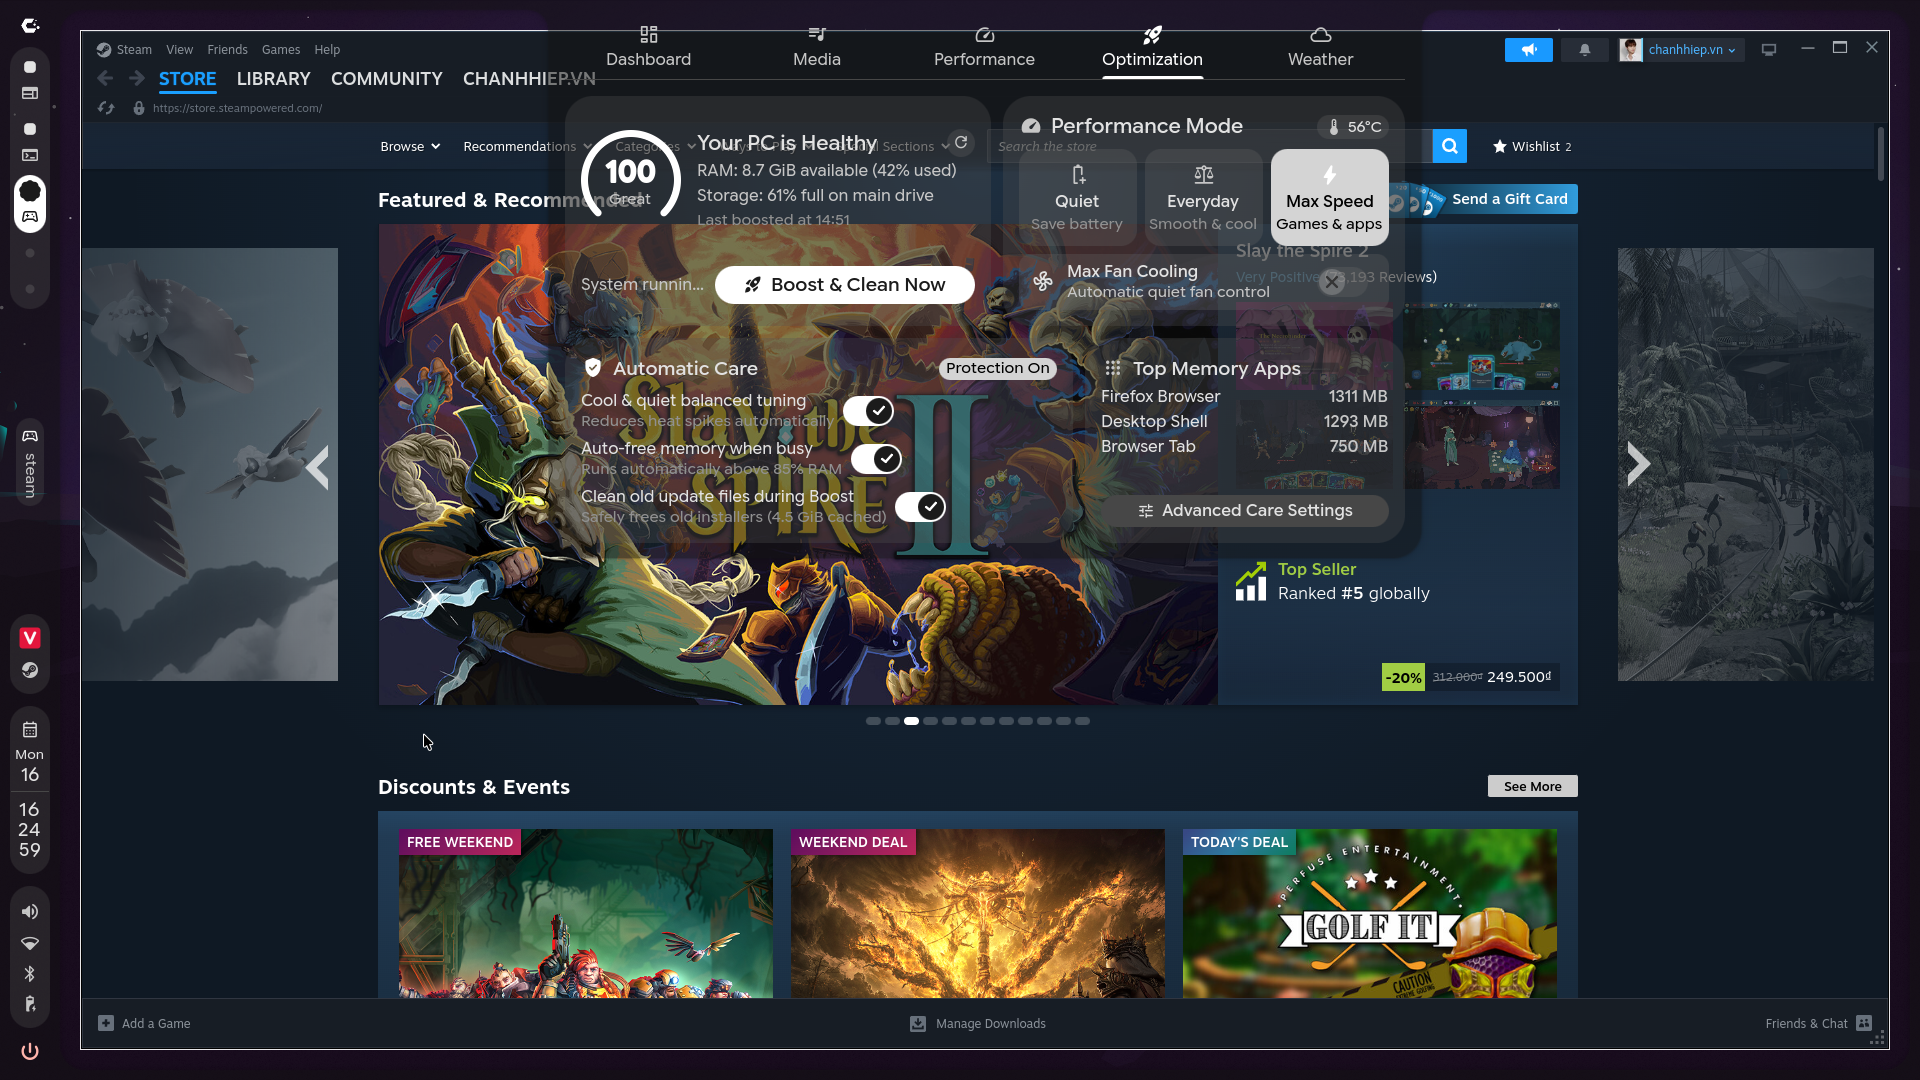
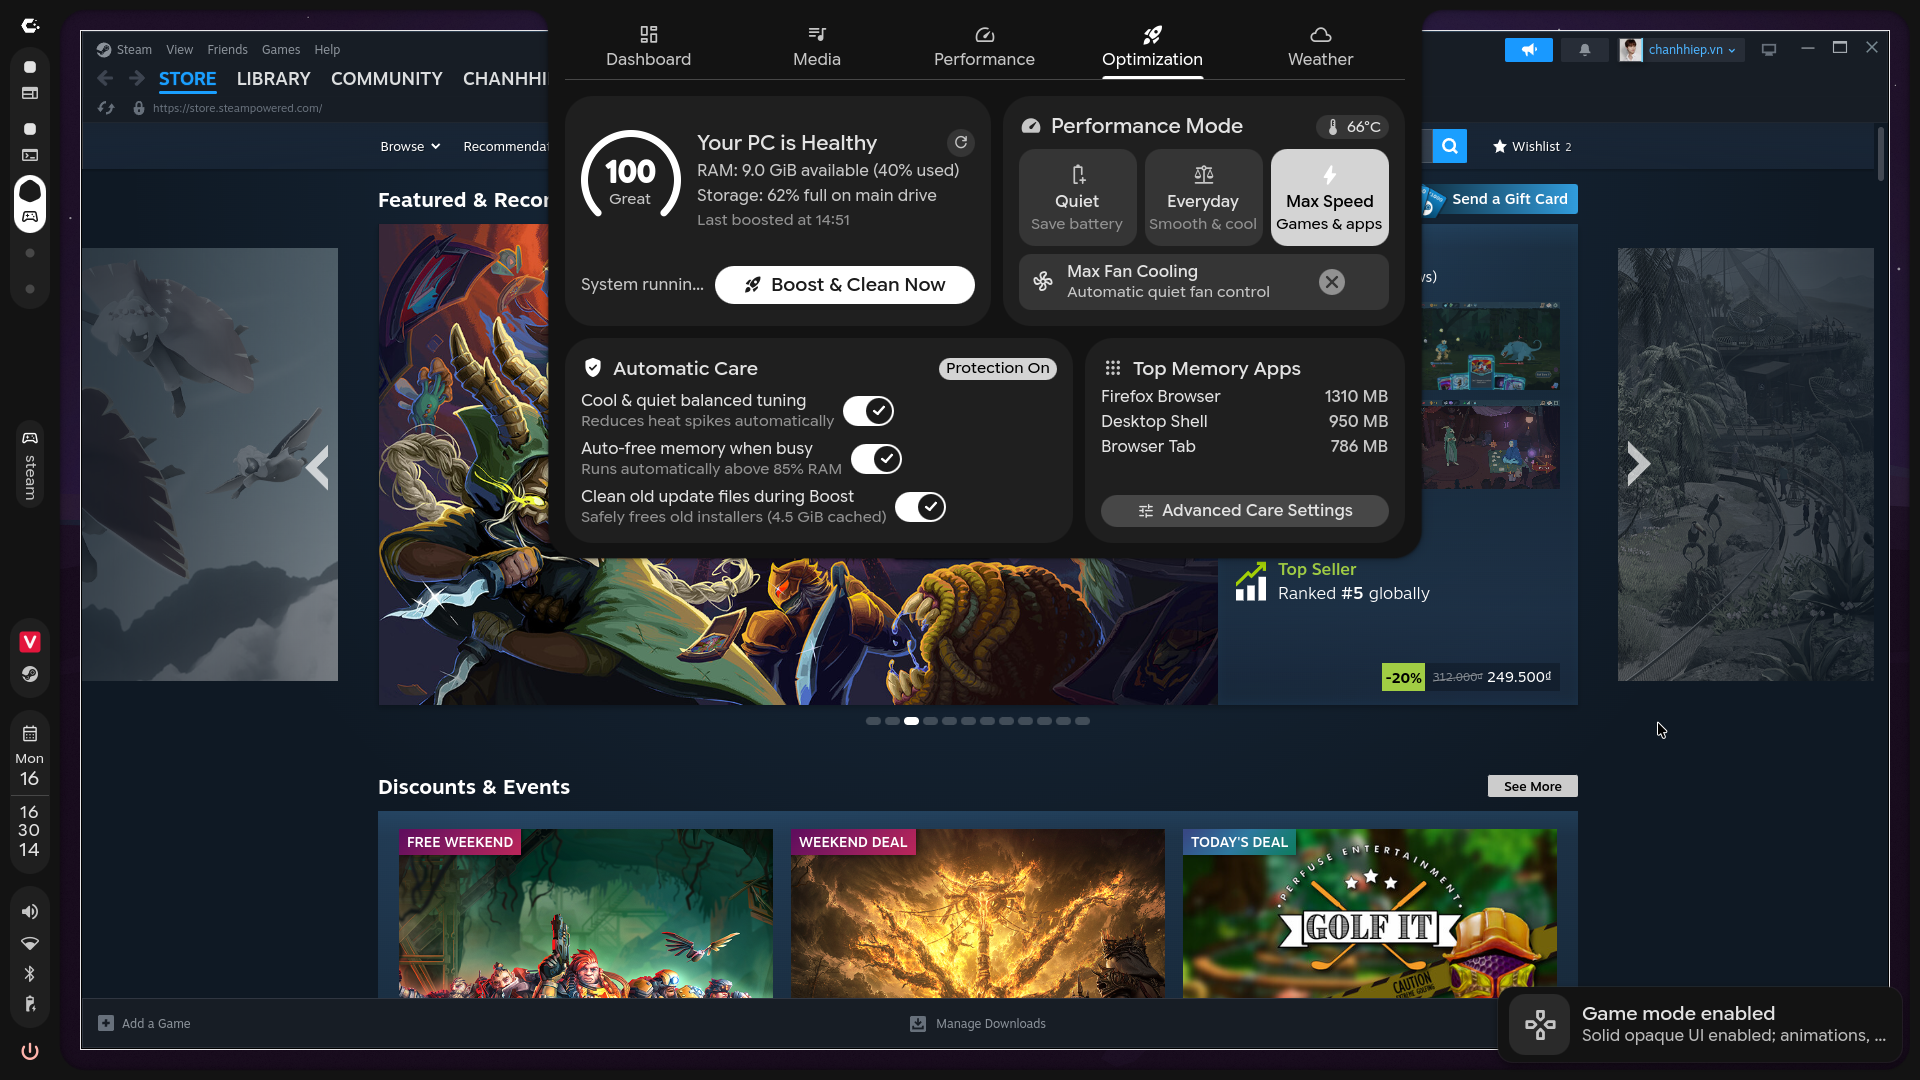
feat: switch UI to solid opaque mode in GameMode/BatterySaver and add Quick Settings screenshot

diff --git a/config/quickshell/caelestia/services/GameMode.qml b/config/quickshell/caelestia/services/GameMode.qml
@@ -28,13 +28,22 @@ Singleton {
 
     onEnabledChanged: {
         if (enabled) {
+            if (!props.solidOverrideActive) {
+                props.savedTransparency = GlobalConfig.appearance.transparency.enabled;
+                props.solidOverrideActive = true;
+            }
+            GlobalConfig.appearance.transparency.enabled = false;
             setDynamicConfs();
             if (GlobalConfig.utilities.toasts.gameModeChanged)
-                Toaster.toast(Tr.tr("Game mode enabled"), Tr.tr("Disabled Hyprland animations, blur, gaps and shadows"), "gamepad");
+                Toaster.toast(Tr.tr("Game mode enabled"), Tr.tr("Solid opaque UI enabled; animations, blur and shadows disabled"), "gamepad");
         } else {
+            if (props.solidOverrideActive) {
+                GlobalConfig.appearance.transparency.enabled = props.savedTransparency;
+                props.solidOverrideActive = false;
+            }
             Hypr.extras.message("reload");
             if (GlobalConfig.utilities.toasts.gameModeChanged)
-                Toaster.toast(Tr.tr("Game mode disabled"), Tr.tr("Hyprland settings restored"), "gamepad");
+                Toaster.toast(Tr.tr("Game mode disabled"), Tr.tr("Hyprland and transparency settings restored"), "gamepad");
         }
     }
 
@@ -42,8 +51,20 @@ Singleton {
         id: props
 
         property bool enabled: Hypr.options["animations:enabled"] === 0 // qmllint disable missing-property
+        property bool savedTransparency: true
+        property bool solidOverrideActive: false
 
         reloadableId: "gameMode"
+    }
+
+    Component.onCompleted: {
+        if (props.enabled) {
+            if (!props.solidOverrideActive) {
+                props.savedTransparency = GlobalConfig.appearance.transparency.enabled;
+                props.solidOverrideActive = true;
+            }
+            GlobalConfig.appearance.transparency.enabled = false;
+        }
     }
 
     Connections {

diff --git a/config/quickshell/caelestia/services/ExtraConfig.qml b/config/quickshell/caelestia/services/ExtraConfig.qml
@@ -404,6 +404,9 @@ Singleton {
         }
     }
 
+    property bool _sleepSolidOverride: false
+    property bool _sleepSavedTransparency: true
+
     function activateMode(modeId: string): void {
         const m = root.modes.find(item => item.id === modeId);
         if (!m)
@@ -417,7 +420,28 @@ Singleton {
         if (m.thermalMode)
             root.setThermalMode(String(m.thermalMode));
 
-        GameMode.enabled = Boolean(m.gameMode);
+        const wantGameMode = Boolean(m.gameMode);
+        const wantSolidBattery = (m.id === "sleep");
+
+        if (wantGameMode) {
+            root._sleepSolidOverride = false;
+            GameMode.enabled = true;
+        } else {
+            GameMode.enabled = false;
+            if (wantSolidBattery) {
+                if (!root._sleepSolidOverride) {
+                    root._sleepSavedTransparency = GlobalConfig.appearance.transparency.enabled;
+                    root._sleepSolidOverride = true;
+                }
+                GlobalConfig.appearance.transparency.enabled = false;
+                root.applyHyprKeyword("decoration:blur:enabled", "false");
+            } else if (root._sleepSolidOverride) {
+                GlobalConfig.appearance.transparency.enabled = root._sleepSavedTransparency;
+                root._sleepSolidOverride = false;
+                root.applyHyprKeyword("decoration:blur:enabled", root.blurEnabled ? "true" : "false");
+            }
+        }
+
         Notifs.dnd = Boolean(m.dnd);
         IdleInhibitor.enabled = Boolean(m.keepAwake);
         applyNightLight(Boolean(m.nightLight), Number(m.nightLightTemp) || 4500);

diff --git a/README.md b/README.md
@@ -32,6 +32,7 @@
   - Detects installed/recommended GPU & CPU microcode drivers (`chwd -a`), checks UEFI/device firmware (`fwupdmgr`), ranks CachyOS mirrors, and cleans orphan packages.
 - **Modes & Automated If/Then Routines (`Modes & Routines`)**
   - Built-in usage profiles (**Balanced**, **Gaming & Turbo**, **Work & Focus**, **Developer**, **Cinema & Media**, **Night & Battery Saver**) that synchronize Power, Cooling, Equalizer, Game Mode, DND, and Night Light.
+  - **Adaptive Solid UI:** Entering **Game Mode** or **Battery Saver** automatically switches panels to a crisp opaque surface (disabling blur and transparency) and restores your glass theme when switching back.
   - Automatic triggers based on **time schedule**, **running app/game process**, or **Wi-Fi SSID**.
 - **10-Band PipeWire Studio Equalizer (`Audio & Studio Equalizer`)**
   - Runs stably as a user `systemd-run` PipeWire filter chain (`caelestia-eq.service`) with 10 presets (*Cinema Surround*, *Bass Boost*, *Rock*, *Vocal*, *Gaming*, etc.), volume overdrive (`up to 150%`), channel balance, and mic noise cancellation.
@@ -80,9 +81,16 @@ One-click system profiles (**Balanced**, **Gaming & Turbo**, **Work & Focus**, *
 ---
 
 ### Live Auto-Trigger Demo: Steam → Automatic Gaming Boost
-When **Steam** (or `gamescope` / `cs2` / `dota2`) launches on any workspace (e.g. Workspace 3), the enabled **If/Then Process Routine** detects it automatically and switches the left taskbar icon, **Gaming & Turbo** mode, and **Max Speed** profile on without manual input — keeping the Ryzen CPU cool at `56°C`.
+When **Steam** (or `gamescope` / `cs2` / `dota2`) launches on any workspace (e.g. Workspace 3), the enabled **If/Then Process Routine** automatically activates **Gaming & Turbo** and **Max Speed** — and switches panels to a **solid, opaque, zero-blur Material 3 surface** so overlays stay crisp and readable over any game or bright store art.
 
 ![Auto Gaming Mode on Steam Launch](assets/screenshots/steam-auto-boost.png)
+
+---
+
+### Quick Settings & System Controls
+Instant bottom-right control drawer synchronized 1:1 with Modes, Power Profiles, Studio EQ presets, Game Mode (`FPS Boost`), Keep Awake, Night Light, audio sliders, and Screen Recorder.
+
+![Quick Settings Panel](assets/screenshots/quick-settings.png)
 
 ---
 
